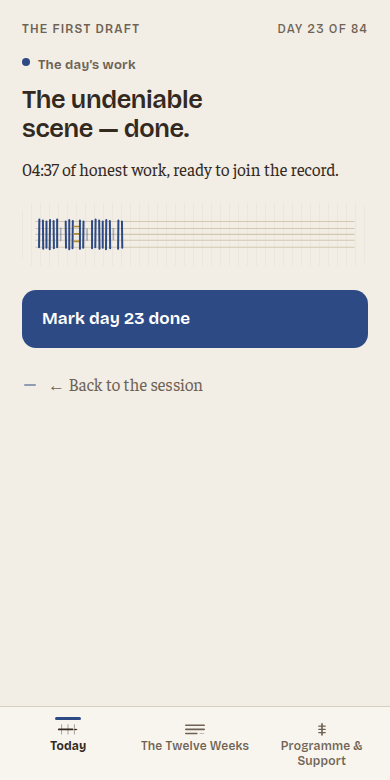
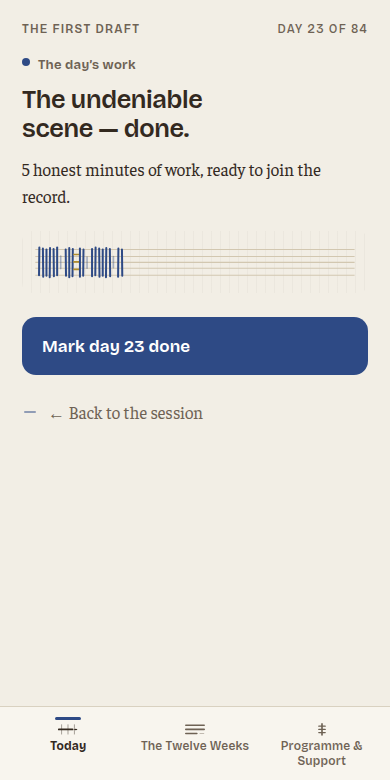
Apply internal critique fixes and add the refinement report
Fixes the completion-screen clock-notation regression (minutes wording) and
raises the first-launch motif numerals to the binding 12px label floor;
records the enlarged-text keyboard-order trade-off; documents the quality-gate
results, motif selection rationale, live-motion findings, typography findings,
deferred minor items and the conditional readiness recommendation.

Changed region(s): [[0.0308, 0.1846, 0.9538, 0.5538]]

diff --git a/design-refinement/reports/refined-index.html b/design-refinement/reports/refined-index.html
@@ -13,6 +13,6 @@
 <h1>12 Weeks — refined Atelier prototype, evidence matrix</h1>
 <p>Generated from the executable prototype by tools/screenshot.mjs. Each row is one experience state and variant; columns are the two programme worlds.</p>
 <table><thead><tr><th>State · variant</th><th>Strength</th><th>Writing</th></tr></thead>
-<tbody><tr><th scope="row">first-launch<span>light</span></th><td><a href="../screenshots/first-launch--light.png"><img loading="lazy" src="../screenshots/first-launch--light.png" alt="first-launch (light, strength)" /></a></td><td><a href="../screenshots/first-launch--light--writing.png"><img loading="lazy" src="../screenshots/first-launch--light--writing.png" alt="first-launch (light, writing)" /></a></td></tr>
-<tr><th scope="row">first-launch<span>dark</span></th><td><a href="../screenshots/first-launch--dark.png"><img loading="lazy" src="../screenshots/first-launch--dark.png" alt="first-launch (dark, strength)" /></a></td><td><a href="../screenshots/first-launch--dark--writing.png"><img loading="lazy" src="../screenshots/first-launch--dark--writing.png" alt="first-launch (dark, writing)" /></a></td></tr>
+<tbody><tr><th scope="row">motif-study<span>light</span></th><td><a href="../screenshots/motif-study--light.png"><img loading="lazy" src="../screenshots/motif-study--light.png" alt="motif-study (light, strength)" /></a></td><td class="none">—</td></tr>
+<tr><th scope="row">motif-study<span>dark</span></th><td><a href="../screenshots/motif-study--dark.png"><img loading="lazy" src="../screenshots/motif-study--dark.png" alt="motif-study (dark, strength)" /></a></td><td class="none">—</td></tr>
 </tbody></table></body></html>

diff --git a/design-refinement/app/refined.js b/design-refinement/app/refined.js
@@ -946,7 +946,7 @@ const screens = {
       ${head(ctx)}
       ${kicker('The day’s work')}
       <h1 class="at-title">${t.shortTitle} — done.</h1>
-      <p class="at-lede">${mmss(Math.max(mem.elapsed, 60))} of honest work, ready to join the record.</p>
+      <p class="at-lede">${Math.max(1, Math.round(mem.elapsed / 60))} honest ${Math.round(Math.max(60, mem.elapsed) / 60) === 1 ? 'minute' : 'minutes'} of work, ready to join the record.</p>
       ${band(ctx, { log: logTodayDone(ctx.w), align: 'min', material: true, cls: 'at-band-roomy', sr: `Today’s thread in place: day ${p.dayOfProgramme} kept.` })}
       ${primary(`Mark day ${p.dayOfProgramme} done`, '__beat')}
       ${linkrow([{ label: 'Back to the session', go: 'active', back: true }])}

diff --git a/design-refinement/app/refined.css b/design-refinement/app/refined.css
@@ -1171,7 +1171,7 @@ html, body {
 }
 .stage .at-motif-num {
   font-family: 'Bricolage Grotesque', 'Avenir Next', system-ui, sans-serif;
-  font-size: 8px;
+  font-size: 12px; /* R8 label floor applies to diagram numerals too */
   font-weight: 600;
   fill: var(--at-ink-2);
 }

diff --git a/docs/04-brand/atelier-refinement-report.md b/docs/04-brand/atelier-refinement-report.md
@@ -1,0 +1,52 @@
+# Atelier Refinement Report
+
+**Phase:** one bounded refinement pass of Direction C — Atelier — selected from the three-direction exploratory laboratory (draft PR #4). Executable result in `design-refinement/`; binding decisions in `atelier-refinement-brief.md`; reversibility and risks in `design-refinement/DECISIONS.md` and `KNOWN-RISKS.md`. Still open: product name, flagship programme, permanent brand identity, production framework, final typography lock, pricing.
+
+## Exact changes from exploratory Atelier
+
+1. **Navigation exists now.** The exploration had states without a top-level map; the refinement adds the three-destination selvedge bar (Today · The Twelve Weeks · Programme & Support) with a laid-thread current marker, `aria-current`, safe-area padding, wrap-not-truncate labels, and session focus (the bar yields during a running session). A new Programme & Support hub gathers membership, schedule change, pause, restore, help and plain terms — administrative life leaves the daily surface.
+2. **200% is a designed hierarchy, not a scale factor.** Identical DOM, re-composed at scale: position line + thin band → title → Begin (inside the first viewport: 470px/611px of 780 across worlds) → both alternatives → why folded to its first sentence behind a real `aria-expanded` disclosure, expanded by default at standard size.
+3. **Texture became a budget.** The everywhere graph-paper is gone. Four surfaces (quiet / progress / transition / completion); flat linen under all running text; dark mode at half texture alpha.
+4. **The journey explains itself.** Permanent legend pairing all six marks with plain names, a totals sentence ("15 of 84 days kept · 1 mended"), shape-distinct open slots (missed ≠ not-open-yet by shape, not colour), per-week plain captions ("Complete · one day made up later", "This week — day 2 of 7", "Opens next").
+5. **Recovery options operate.** Every capacity level restates the action it produces ("Begin — 10 minutes" / "Begin — week 3, day 1" / "Begin — 14 minutes, today in full"); pause is a designed state ("Pausing is a decision, not a lapse."); schedule change is a literal control with its weave phrasing demoted to an aside.
+6. **First launch communicates without copy.** Three motif candidates built and judged with captions covered (see below).
+7. **Tablet is composed.** Reading column (≤46ch) + one material rail with one caption, one dominant action, on Today, Show me how, journey, long absence, week 12.
+8. **Meridian's useful principles arrived in Atelier's clothes.** Plain position lines ("Day 16 of 84 · Week 3 of 12"), three-level capacity selection, tabular-lining Bricolage timer numerals, minutes wording outside live timers. No instrument styling, no mono, no second progress representation.
+9. **Commerce hierarchy tightened.** Price + term as one block with the cancellation path stated beside the price; restore visible from every commerce state; expiry keeps reading and export at equal weight.
+
+## First-launch motif — selected: M1, "First thread ready"
+
+Three refinements of the single opening motif were built same-size in the `motif-study` state and judged with captions covered against the four criteria (twelve bounded stages · something being made · progress that remains · calm forward movement). **M1 — twelve numbered row-frames, row one's warp brightened, the first weft visibly entering — is the only candidate that communicates *twelve bounded stages* with no explanatory copy at all: the numerals carry it.** M2 (ghost band with row one solid) is the most beautiful and best expresses "the ending shown at once", but its twelve-ness is invisible without the caption — the exact flaw this study existed to remove. M3 sat between. M1 ships as the default; M2 and M3 remain rendered in the study state as the record, and M2 is noted as the stronger *week-12-adjacent* image (the finished band already serves that role).
+
+## Live-motion findings
+
+Seven moments run and inspected in the live prototype: begin (bar-to-session focus shift), instruction expansion (`aria-expanded` fold), alternative selection (thread-stroke thickens, navigates), day completion (pick laid, then beat), mend (gold stitches draw over the open slot), week transition (row completes on the transition surface), week-12 unroll (600ms clip-path reveal, once). All are interruptible (registered timeouts cancel on unmount — probe-verified), none block input, and reduced motion preserves every completed state (`week-12--reduced` renders the finished band byte-identical to the animated end state). Timers are wall-clock anchored (+2s probe under tick suppression). No confetti, bounce, parallax or cinematic delay anywhere.
+
+## Typography findings
+
+Bricolage Grotesque + Faustina retained. This pass: body settled at 1.0625rem/1.62 for instruction reading; 12px floor enforced as CSS `max()` on every label token (extended to diagram numerals after critique); tabular numerals on timers and counts; dark mode gets slight weight compensation; sustained italic remains banned (single-line asides only). Recorded caveats: Faustina at small sizes on low-resolution Android is untested on device (fallback candidate documented: Literata); families are **not** locked until on-device testing (D-R9).
+
+## Internal critique pass (one, as scoped)
+
+Quality-gate review against all twelve gate items: **eleven PASS on first inspection, one FAIL.**
+
+| Severity | Finding | Outcome |
+|---|---|---|
+| Major | MM:SS leaked back outside a live timer — completion lede rendered "04:37 of honest work" | **Fixed** — minutes wording ("5 honest minutes of work, ready to join the record"); re-captured |
+| Minor (elevated) | First-launch motif numerals at 8px broke the pass's own binding 12px floor (R8) | **Fixed** — brief compliance, one-line change; re-captured |
+| Minor | 200% keyboard focus order reaches the why-disclosure before Begin though Begin sits visually higher | **Accepted and recorded** in `enlarged-text-information-strategy.md` — the DOM alternative would demote the rationale for every screen-reader user at every size |
+| Nit | Dead `[aria-pressed]` selector on options; "The longer story" + "Show less" stacked at standard size; selvedge labels wrap to three lines at 200%; denominator framing shifts ("day 2 of 7" vs "2 of 5 programme days") | **Deferred** — logged here per the fix-only-blockers-and-majors rule |
+
+Post-fix evidence: **screenshot matrix 106 captures** (both worlds; light/dark; 100/200%; 320/390/tablet; reduced motion; manifest + `reports/refined-index.html`), **51 axe-core audits — 0 violations**, **21/21 interaction probes passing** (aria-current, session nav-hiding, 200% Begin-in-first-viewport both worlds, DOM-order identity across scales, disclosure toggling, reduced-motion completion states, wall-clock timer, no 320px overflow, all three motifs render).
+
+## Strength/writing comparison
+
+Structure is world-agnostic throughout — same states, same hierarchy, same controls. The worlds differ exactly where they should: dye (madder/indigo), duration ("14 minutes"/"25 minutes"), task language, and completion voice ("Twelve weeks. Kept." over the band / "THE END. You wrote that." over the same band in indigo). The writing world's recovery reads as true to drafting ("the draft waited — that's what drafts do"), the strength world's to the body ("strength fades far slower than schedules do"). Neither world required a structural exception — the category-agnostic bet holds.
+
+## Remaining risks
+
+The full register is `design-refinement/KNOWN-RISKS.md`; the three that matter most: (1) first-sight cloth comprehension is still unproven with real 60–75-year-old users — the one risk that could overturn the direction choice; (2) the 200% re-rank threshold is binary in the prototype and needs a continuous-scaling design for Dynamic Type; (3) cross-screen thread continuity remains unvalidated in a re-rendering prototype and needs a shared-element spike in the production framework.
+
+## Readiness recommendation
+
+**Atelier is ready to become the production design foundation, conditionally.** The refinement closed the exploration's four structural gaps (navigation, enlarged text, tablet, texture discipline), survived its own quality gate with one copy-level failure, and holds both programme worlds without exceptions. The conditions are the three risks above: run real-user comprehension sessions (including older adults) before committing engineering to the cloth as the primary progress metaphor; design the continuous-scaling behaviour; and spike shared-element transitions in whichever production framework is chosen. None of these blocks starting production design system work now — they block *declaring it finished*.

diff --git a/docs/03-ux/enlarged-text-information-strategy.md b/docs/03-ux/enlarged-text-information-strategy.md
@@ -27,4 +27,5 @@ Mechanics:
 2. **Two compositions to maintain.** Every Today change must be verified at both ranks; the screenshot matrix enforces this (`today--scale200` is a permanent capture).
 3. **The strip band is less evocative than the full band.** Material presence is reduced at exactly the size where decoration crowds fastest; the journey destination keeps the full cloth one tap away.
 4. **This strategy is Today-specific.** Instruction pages (Show me how) scale proportionally — they are linear reading, where proportional scaling is correct. Journey keeps its full legend at 200% and grows tall; that is acceptable for an orientation surface.
-5. **Prototype scaling is emulated** (a font-size multiplier). Production must bind to platform Dynamic Type / non-linear font scaling, where intermediate steps (135%, 160%) need the re-rank threshold chosen deliberately — recorded as an open production task in `design-refinement/KNOWN-RISKS.md`.
+5. **Keyboard focus order at 200% differs from visual order in one place.** The why-disclosure sits before Begin in the DOM (where it reads correctly at standard size) but is composed after the alternative rows at 200%, so a keyboard user tabbing at 200% reaches the why controls before Begin even though Begin sits visually higher. We accept this deliberately: the alternative — reordering the DOM — would put the day's rationale after the action for *every* screen-reader user at *every* size, which is the worse trade. Revisit if switch-access or keyboard testing shows real cost.
+6. **Prototype scaling is emulated** (a font-size multiplier). Production must bind to platform Dynamic Type / non-linear font scaling, where intermediate steps (135%, 160%) need the re-rank threshold chosen deliberately — recorded as an open production task in `design-refinement/KNOWN-RISKS.md`.
